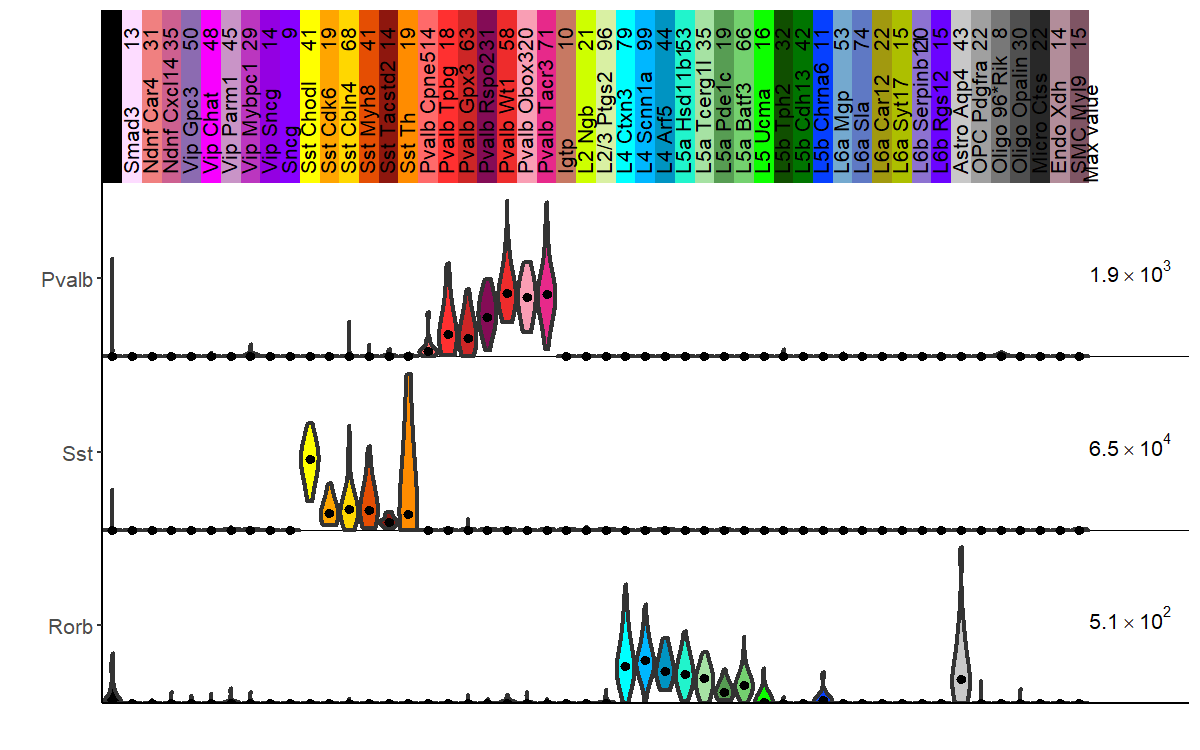
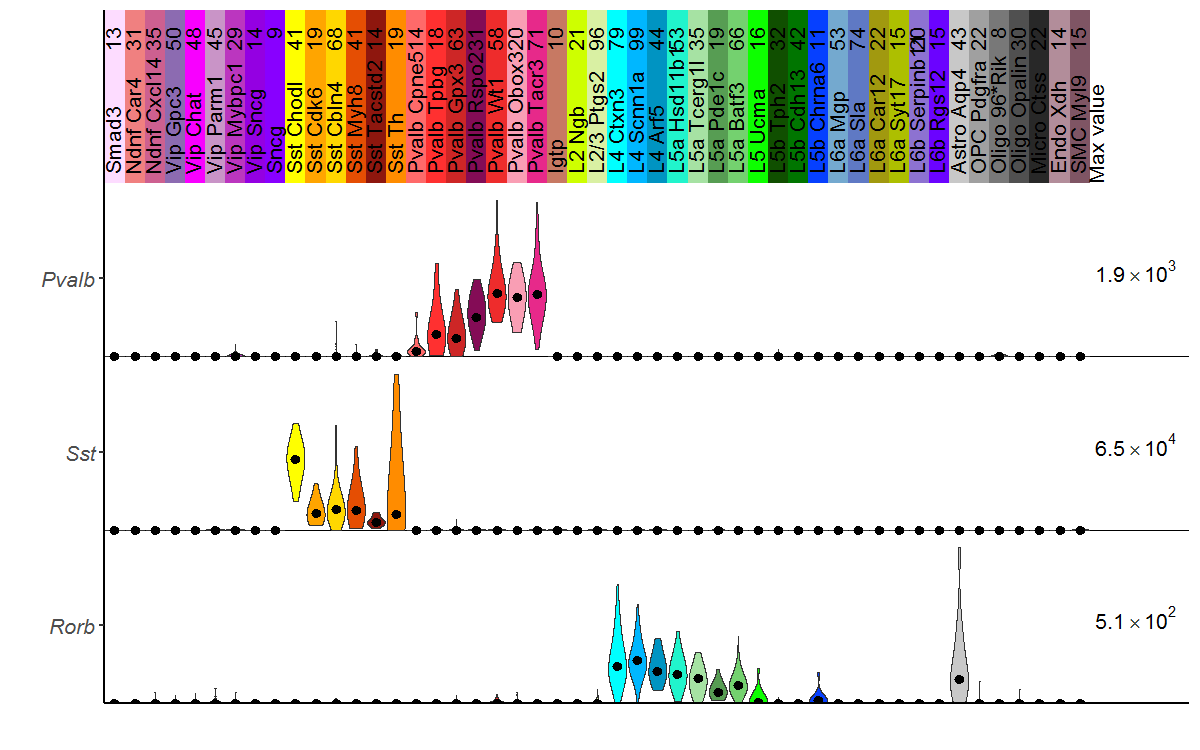
version bump and pull integration

diff --git a/README.md b/README.md
@@ -2,6 +2,10 @@
 
 Single-cell RNA-seq visualization tools.  
 
+This package is under heavy development and optimization.  
+
+<img src="https://upload.wikimedia.org/wikipedia/commons/c/c0/Animal-Cat-Black-cat-watching-fish-bowl.jpg" alt="Seeing into the fishbowl" width="200px"/>
+
 ## Installation
 
 All of the dependencies for `scrattch.vis` are available from CRAN. You can install scrattch.vis from Github using:
@@ -15,32 +19,120 @@ devtools::install_github("AllenInstitute/scrattch.vis")
 
 Once installed, `scrattch.vis` provides a variety of functions for visualizing scRNA-seq data based on sample annotations. Each of these returns a `ggplot2` plot object:
 
+Load packages and data:
+```
+library(tasic2016data)
+library(scrattch.vis)
+options(stringsAsFactors = F)
+
+anno <- tasic_2016_anno
+anno <- anno[anno$cluster_id > 0,]
+data <- tasic_2016_rpkm
+data_df <- cbind(sample_name = colnames(data),
+                 as.data.frame(t(data[c("Pvalb","Sst","Rorb"),])))
+```
+
 ### Sample-centric plots:
 
 sample_bar_plot()
+```
+sample_bar_plot(data_df, 
+                anno, 
+                genes = c("Pvalb","Sst","Rorb"), 
+                grouping = "primary_type", 
+                group_order = c(1,6,2,9,4),
+                log_scale = FALSE,
+                font_size = 5,
+                label_type = "angle")
+```
 ![](man/figures/sample_bar_plot.png?raw=true)  
 
 sample_heatmap_plot()
+```
+sample_heatmap_plot(data_df, 
+                    anno, 
+                    genes = c("Pvalb","Sst","Rorb"), 
+                    grouping = "primary_type", 
+                    log_scale = TRUE,
+                    font_size = 5)
+```
 ![](man/figures/sample_heatmap_plot.png?raw=true)  
 
 sample_fire_plot()
+```
+sample_fire_plot(data_df, 
+                 anno, 
+                 genes = c("Pvalb","Sst","Rorb"), 
+                 grouping = "primary_type", 
+                 log_scale = TRUE,
+                 top_value = "lowest",
+                 font_size = 5)
+```
 ![](man/figures/sample_fire_plot.png?raw=true)
 
 ### Group-centric plots:
 
-group_violing_plot()
+group_violin_plot()
+```
+group_violin_plot(data_df, 
+                  anno, 
+                  genes = c("Pvalb","Sst","Rorb"), 
+                  grouping = "primary_type", 
+                  log_scale = FALSE,
+                  font_size = 5,
+                  rotate_counts = TRUE)
+```
+
 ![](man/figures/group_violin_plot.png?raw=true)  
 
 group_quasirandom_plot()
+```
+group_quasirandom_plot(data_df, 
+                       anno, 
+                       genes = c("Pvalb","Sst","Rorb"), 
+                       grouping = "primary_type", 
+                       log_scale = FALSE,
+                       font_size = 5,
+                       rotate_counts = TRUE)
+```
 ![](man/figures/group_quasirandom_plot.png?raw=true)  
 
 group_dot_plot()
+```
+group_dot_plot(data_df, 
+               anno, 
+               genes = c("Pvalb","Sst","Rorb"), 
+               grouping = "primary_type", 
+               log_scale = TRUE,
+               font_size = 5,
+               max_size = 5,
+               rotate_counts = TRUE)
+```
 ![](man/figures/group_dot_plot.png?raw=true)  
 
 group_box_plot()
+```
+group_box_plot(data_df, 
+               anno, 
+               genes = c("Pvalb","Sst","Rorb"), 
+               grouping = "primary_type", 
+               log_scale = FALSE,
+               font_size = 5,
+               rotate_counts = TRUE)
+```
 ![](man/figures/group_box_plot.png?raw=true)  
 
 group_heatmap_plot()
+```
+group_heatmap_plot(data_df, 
+                   anno, 
+                   genes = c("Pvalb","Sst","Rorb"), 
+                   grouping = "primary_type", 
+                   stat = "tmean",
+                   log_scale = TRUE,
+                   font_size = 5,
+                   rotate_counts = TRUE)
+```
 ![](man/figures/group_heatmap_plot.png?raw=true)  
 
 ## The `scrattch` suite
